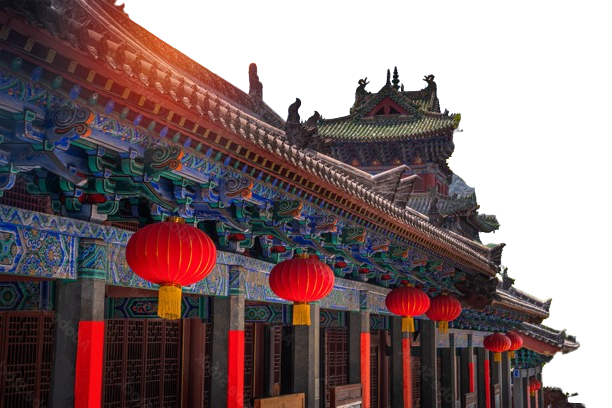
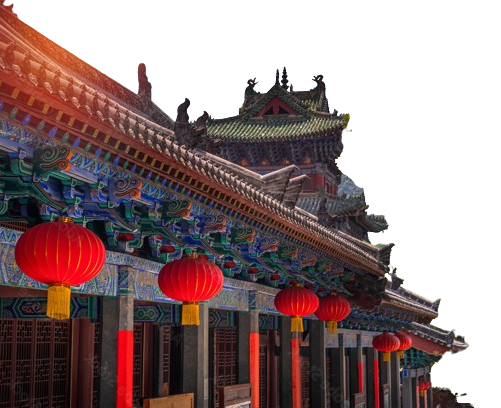
2페이지 수정중
- 이미지 수정
- 레이아웃 수정
- 시놉2 이미지 삽입 필요

diff --git a/common/pages.css b/common/pages.css
@@ -98,30 +98,32 @@
 
 .contents .page2{
   position: relative;
+  background-color: #676767;
 }
-.contents .page2 .desc{
+
+.contents .page2 .desc .title{
+  position: relative;
+  top: 347px;
+  left: 75%;
+  font-size: 4.5rem;
+  /* color: #dfdfdf; */
   z-index: 1;
 }
-.contents .page2 .desc .title{
-  position: absolute;
-  top: 19%;
-  left: 77%;
-  font-size: 4.5rem;
-  color: #dfdfdf;
-}
 .contents .page2 .desc .synop1{
-  position: absolute;
+  position: relative;
   width: 38%;
-  top: 28%;
+  top: 419px;
   left: 55%;
   text-align: right;
+  z-index: 1;
 }
 .contents .page2 .desc .synop2{
-  position: absolute;
+  position: relative;
   width: 38%;
-  top: 70%;
-  left: 44%;
+  top: 472px;
+  left: 8%;
   text-align: left;
+  z-index: 1;
 }
 .contents .page2 .desc .synop1 h1,.contents .page2 .desc .synop2 h1{
   color: #AA1313;
@@ -132,22 +134,26 @@
   font-size: 1.5rem;
   text-align: justify;
 }
-.contents .page2 .desc .synop1 div{
+.contents .page2 .desc .synop2 div{
   color: #dfdfdf;
 }
-.contents .page2 .figure{
+
+.contents .page2 .imgContainer{
+  position: relative;
+  top: -501px;
+  height: 665px;
+}
+.contents .page2 .imgContainer .figure{
   position: absolute;
-  clip-path: polygon(0 0, 100% 0%, 100% 89%, 0 13%);
-  background-color: #676767;
+  /* clip-path: polygon(73% 0, 100% 0, 100% 100%, 0% 100%); */
+  clip-path: polygon(109% 0%, 0% 100%, 100% 100%);
+  background-color: #C1C1C1;
   width: 100%;
   height: 100%;
-  margin-top: -1px;
 }
-
-.contents .page2 .imgtiangate{
+.contents .page2 .imgContainer .imgtiangate{
   position: absolute;
-  top: 4%;
-  width: 996px;
+  width: 817px;
   height: 665px;
   background: url(../images/1.png) center / contain no-repeat;
   /* outline: 2px solid;*/

diff --git a/index.html b/index.html
@@ -48,7 +48,6 @@
         </div>
         <!-- 두번째 페이지 -->
         <div class="page2">
-          <div class="figure"></div>
           <div class="desc">
             <h1 class="title fontKdg">시놉시스</h1>
             <div class="synop1">
@@ -60,7 +59,10 @@
               <div class="fontScoreDream">오랜 시간 뒤, 프랑스에서 재회한 두 사람. 모든 것을 포기하고 송과의 사랑을 선택한 르네는 사랑이라는 이름의 환상과 욕망에 사로잡혀 국가기밀누설죄라는 중대한 사건의 한가운데 있는 자신을 발견한다. 그토록 외면해왔던 진실을 마주하고, 혼란과 환멸로 괴로워하는데...</div>
             </div>
           </div>
-          <div class="imgtiangate"></div>             
+          <div class="imgContainer">
+            <div class="figure"></div>
+            <div class="imgtiangate"></div>             
+          </div>
         </div>
         <!-- 세번째 페이지 -->
         <div class="page3">
